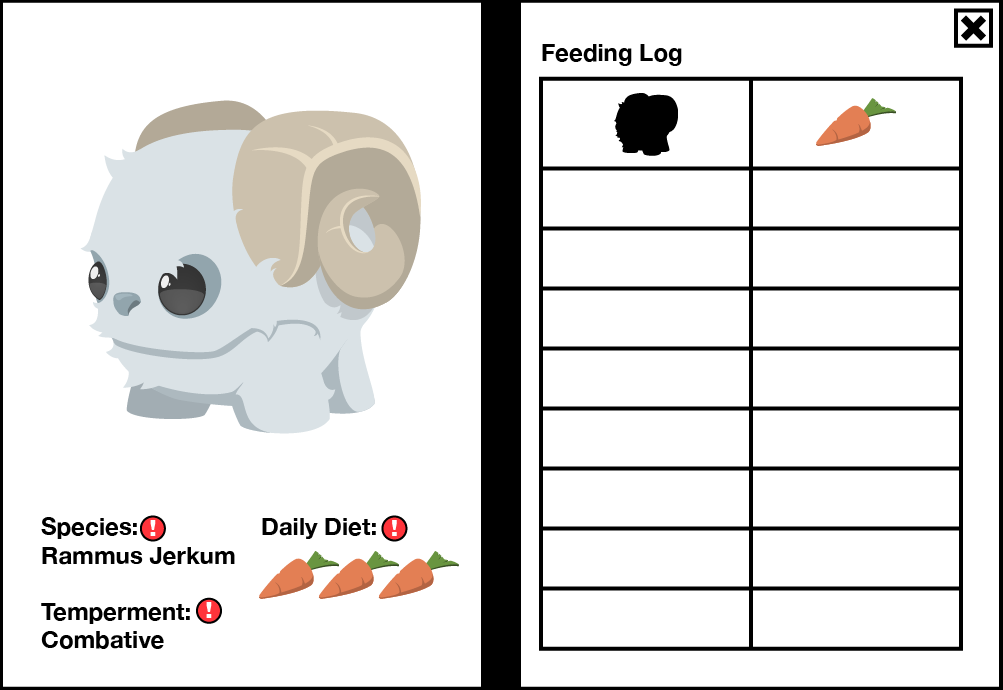
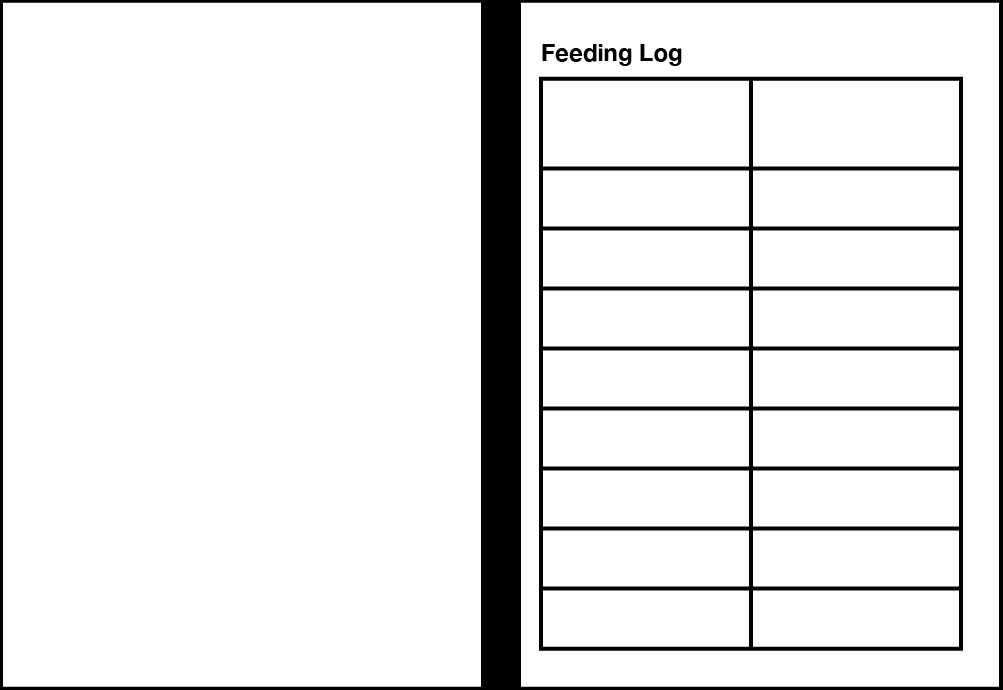
Added dynamic creature info to the journal.

diff --git a/html5/js/src/Journal.js b/html5/js/src/Journal.js
@@ -10,60 +10,78 @@ GlassLab.Journal = function(game) {
     this.sprite = game.make.sprite();
     this.sprite.scale.setTo(0.8, 0.8);
 /*
-    this.background = game.make.graphics();
-    this.background.beginFill(0xAAAAFF).drawRect(0, 0, 800, 600);
-    this.sprite.addChild(this.background);
+  // Commenting this out since we're using the placeholder journal background for now, but maybe add it in the future
+  this.background = game.make.graphics();
+  this.background.beginFill(0xAAAAFF).drawRect(0, 0, 800, 600);
+  this.sprite.addChild(this.background);
+  this.journalLabel = game.make.text(400, 50, "Journal");
+  this.journalLabel.anchor.setTo(.5, 0);
+  this.sprite.addChild(this.journalLabel);
 */
-    // PLACEHOLDER
     this.bg = game.make.sprite(0,0, "journalBg");
     this.sprite.addChild(this.bg);
 
     this.alerts = game.make.sprite();
     this.sprite.addChild(this.alerts);
-/*
-    this.journalLabel = game.make.text(400, 50, "Journal");
-    this.journalLabel.anchor.setTo(.5, 0);
-    this.sprite.addChild(this.journalLabel);
-*/
-    // Feed log - note I'm not going to use a UITable here because the UI table adjusts to contents, which we don't need
-    this.feedLog = game.make.sprite(645, 200);
-    this.sprite.addChild(this.feedLog);
+
+    // Food log - note I'm not going to use a UITable here because the UI table adjusts to contents, which we don't need
+    this.foodLog = game.make.sprite(645, 200);
+    this.sprite.addChild(this.foodLog);
     var rowHeight = 60;
     var colWidth = 210;
     this.foodLogEntries = [];
     for (var i = 0; i < 8; i++) {
       var y = i * rowHeight;
-      var creatureText = game.make.text(0, rowHeight * i,"creature"+i);
+      var creatureText = game.make.text(0, rowHeight * i);
       creatureText.anchor.setTo(0.5, 0.5);
-      this.feedLog.addChild(creatureText);
+      this.foodLog.addChild(creatureText);
 
-      var foodText = game.make.text(colWidth, rowHeight * i, "food"+i);
+      var foodText = game.make.text(colWidth, rowHeight * i);
       foodText.anchor.setTo(0.5, 0.5);
-      this.feedLog.addChild(foodText);
+      this.foodLog.addChild(foodText);
 
       this.foodLogEntries.push({creatureText: creatureText, foodText: foodText});
     }
-/*
-    var feedLogLabel = game.make.text(100, -50, "Feed Log");
-    feedLogLabel.anchor.setTo(.5, 0);
-    this.feedLog.addChild(feedLogLabel);
+
+    // Feeding Log picture
+    this.foodLogCreatureArt = game.make.sprite(0, -42);
+    this.foodLogCreatureArt.tint = 0x000000;
+    this.foodLogCreatureArt.scale.setTo(0.2, 0.2);
+    this.foodLogCreatureArt.anchor.setTo(.5, 1);
+    this.foodLog.addChild(this.foodLogCreatureArt);
+
+    this.foodLogFoodArt = game.make.sprite(colWidth, 10);
+    this.foodLogFoodArt.scale.setTo(0.55, 0.55);
+    this.foodLogFoodArt.anchor.setTo(.5, 1);
+    this.foodLog.addChild(this.foodLogFoodArt);
 
     // Creature Picture
-    this.creatureView = game.make.sprite(200, 100, "sheep");
-    this.creatureView.anchor.setTo(.5, 0);
-    this.creatureView.scale.setTo(.5, .5);
-    this.creatureLabel = game.make.text(0, 550, "Rammus");
-    this.creatureLabel.anchor.setTo(.5, 0);
-    this.creatureView.addChild(this.creatureLabel);
-    this.sprite.addChild(this.creatureView);
-*/
-    this.closeButton = game.make.button(1000, 0, "closeIcon" , this._onClosePressed, this);
-    this.closeButton.anchor.setTo(.5, .5);
-    this.closeButton.scale.setTo(.25, .25);
+    this.creatureArt = game.make.sprite(240, 450);
+    this.creatureArt.anchor.setTo(.5, 1);
+    this.sprite.addChild(this.creatureArt);
+
+    // Creature info
+    this.creatureInfo = game.make.text(30, 500);
+    this.creatureInfo.anchor.setTo(0, 0);
+    this.sprite.addChild(this.creatureInfo);
+
+    var dietLabel = game.make.text(300, 500, "Daily Diet:");
+    dietLabel.anchor.setTo(0, 0);
+    this.sprite.addChild(dietLabel);
+
+    this.dailyDiet = game.make.sprite(310, 530);
+    this.sprite.addChild(this.dailyDiet);
+
+    this.unknownDietLabel = game.make.text(300, 530, "???");
+    this.unknownDietLabel.anchor.setTo(0, 0);
+    this.sprite.addChild(this.unknownDietLabel);
+
+    this.closeButton = game.make.button(970, 30, "closeIcon" , this._onClosePressed, this);
+    this.closeButton.anchor.setTo(0.5, 0.5);
+    this.closeButton.scale.setTo(.2, .2);
     this.sprite.addChild(this.closeButton);
 
     this.sprite.visible = false;
-    //this.Show();
 };
 
 GlassLab.Journal.prototype.IsShowing = function()
@@ -81,9 +99,11 @@ GlassLab.Journal.prototype.Show = function()
 GlassLab.Journal.prototype.RefreshWithCreature = function(creatureType)
 {
   var creatureData = GLOBAL.creatureManager.GetCreatureData(creatureType);
+  this.foodLogCreatureArt.loadTexture(creatureData.spriteName+"_art");
+  this.foodLogFoodArt.loadTexture(creatureData.desiredFoodType);
+  this.creatureArt.loadTexture(creatureData.spriteName+"_art");
 
-  var creatureName = creatureType.toString();
-  //this.creatureLabel.setText(creatureName.charAt(0).toUpperCase() + creatureName.slice(1));
+  this.creatureInfo.setText("Species:\n" + creatureData.journalInfo.name + "\n\nTemperament:\n"+creatureData.journalInfo.temperament);
 
   // Fill in every entry with either the number or ???. We may have to revise for different table behavior later.
   for (var i=0, len=this.foodLogEntries.length; i < len; i++)
@@ -100,6 +120,33 @@ GlassLab.Journal.prototype.RefreshWithCreature = function(creatureType)
     } else {
       this.foodLogEntries[i].creatureText.setText("???");
       this.foodLogEntries[i].foodText.setText("???");
+    }
+  }
+
+  // Fill in the Daily Diet if we know it
+  var knownDailyDiet = creatureData.discoveredFoodCounts[1];
+  this.dailyDiet.visible = knownDailyDiet;
+  this.unknownDietLabel.visible = !knownDailyDiet;
+  var numCols = 3; // how many foods to display in a single row
+  if (knownDailyDiet) {
+    for (var i = 0, j = Math.max(this.dailyDiet.children.length, creatureData.desiredAmount); i < j; i++) {
+      if (i < creatureData.desiredAmount) {
+        var child; // try to get a child if it exists; else make a new one
+        if (i < this.dailyDiet.children.length) {
+          child = this.dailyDiet.getChildAt(i);
+          child.visible = true;
+        } else {
+          child = this.game.make.sprite();
+          child.anchor.setTo(0.5, 0);
+          child.scale.setTo(0.4, 0.4);
+          this.dailyDiet.addChild(child);
+        }
+        child.x = (i % numCols) * 50;
+        child.y = Math.floor(i / numCols) * 50;
+        child.loadTexture(creatureData.desiredFoodType);
+      } else { // more children than we want to display, so hide it
+        this.dailyDiet.getChildAt(i).visible = false;
+      }
     }
   }
 };

diff --git a/html5/js/src/prototype.js b/html5/js/src/prototype.js
@@ -12,6 +12,7 @@ window.onload = function() {
         game.load.image('sheep', 'assets/images/sheep.png');
         game.load.atlasJSONHash('sheep_walk', 'assets/images/sheepAnim.png', 'assets/images/sheepAnim.json');
         game.load.atlasJSONHash('sheep_eat', 'assets/images/sheep_eat.png', 'assets/images/sheep_eat.json');
+        game.load.image('sheep_art', 'assets/images/ramArt.png');
 
         game.load.image('carrot', 'assets/images/isoCarrot.png');
         game.load.atlasJSONHash('carrot_eaten', 'assets/images/carrot_death_vfx.png', 'assets/images/carrot_death_vfx.json');

diff --git a/html5/js/src/Creature.js b/html5/js/src/Creature.js
@@ -14,8 +14,12 @@ GlassLab.CreatureManager = function(game)
     GLOBAL.creatureManager = this;
     this.creatureDatabase = {
         rammus: {
+            journalInfo: {
+              name: "Rammus Jerkum",
+              temperament: "Combative"
+            },
             spriteName: "sheep",
-            desiredFoodType: "Carrots",
+            desiredFoodType: "carrot",
             desiredAmount: 3,
             discoveredFoodCounts: {} // discoveredFoodCounts[n] will be "new" or true when they discovered the food for n creatures
         },
